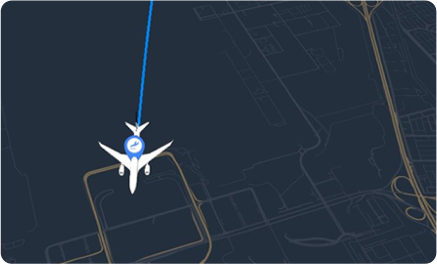
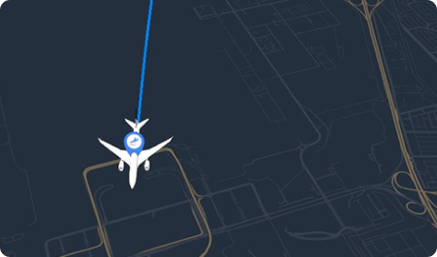
Miqat Page

diff --git a/src/renderer/screens/Miqat/index.tsx b/src/renderer/screens/Miqat/index.tsx
@@ -1,6 +1,34 @@
 import React from 'react';
+import UmrahMiqatSteps from 'renderer/components/UmrahMiqatSteps';
+import MiqatMap from 'renderer/components/MiqatMap';
 import classes from './style.module.css';
 
 export default function Miqat() {
-  return <div className={classes.wrapper}>Miqat</div>;
+  return (
+    <div className={classes.wrapper}>
+      <p className={classes.para}>
+        On the spiritual Hajj and Umrah trip to the purest place on earth, there
+        are Miqats (Islamic boundaries Prophet Mohammed Peace Be Upon Him
+        determined for Pilgrims to enter Ihram from), either by land points or
+        parallel to Miqat when arriving by air.
+      </p>
+      <section className={classes.secondSection}>
+        <MiqatMap />
+        <div className={classes.rightSecMap}>
+          <h1 className={classes.header}>Al-Juhfah</h1>
+          <hr className={classes.mapDivider} />
+          <p className={classes.mapText}>
+            Al-Juhfah is located 182 kilometres (113 miles) northwest of Makkah.
+            This is the Miqat for people intending to perform Hajj traveling
+            from North America, Europe, Turkey, Syria, Egypt, Algeria, Sudan and
+            several other African countries. Pilgrims may also enter into Ihram
+            at Rabigh, a town just to the north of al-Juhfah.
+          </p>
+        </div>
+      </section>
+      <section className={classes.stepSection}>
+        <UmrahMiqatSteps />
+      </section>
+    </div>
+  );
 }

diff --git a/src/renderer/components/UmrahMiqatSteps/styles.module.css b/src/renderer/components/UmrahMiqatSteps/styles.module.css
@@ -1,0 +1,75 @@
+.Wrapper {
+  position: relative;
+  width: 100%;
+}
+
+.header {
+  font-weight: 500;
+  font-size: 34px;
+  line-height: 41px;
+  color: #b49164;
+  margin-bottom: 17px;
+}
+
+.divider {
+  width: 868px;
+  height: 0px;
+  border: 1px solid #5d5d5d;
+  margin-bottom: 17px;
+}
+
+.steps {
+  height: 439px;
+  padding: 0 64px;
+  overflow-y: scroll;
+  display: flex;
+  flex-direction: column;
+  gap: 30px;
+  padding-left: 0;
+}
+
+.wrapper::after {
+  content: '';
+  position: absolute;
+  top: 0;
+  left: 0;
+  height: 110%;
+  width: 100%;
+  background: linear-gradient(
+    180deg,
+    rgba(35, 40, 44, 0) 25%,
+    rgba(35, 40, 44, 0.75) 80%,
+    rgba(35, 40, 44, 0.9) 95%,
+    #23282c 100%
+  );
+  pointer-events: none;
+}
+
+/* width */
+::-webkit-scrollbar {
+  width: 5px;
+}
+
+/* Track */
+::-webkit-scrollbar-track {
+  background: linear-gradient(
+    90deg,
+    #23282c 0%,
+    #23282c 30%,
+    #b39164 50%,
+    #23282c 60%,
+    #23282c 100%
+  );
+}
+
+/* Handle */
+::-webkit-scrollbar-thumb {
+  border-radius: 20px;
+  background: #b39164;
+  width: 40px;
+}
+
+/* Handle on hover */
+::-webkit-scrollbar-thumb:hover {
+  background: #967954;
+}

diff --git a/src/renderer/components/UmrahMiqatSteps/index.tsx b/src/renderer/components/UmrahMiqatSteps/index.tsx
@@ -1,0 +1,25 @@
+import MiqatStep from '../MiqatStep';
+import styles from './styles.module.css';
+
+const text =
+  'Ihram is an important aspect of the Hajj and Umrah pilgrimage for Muslims. It is a state of ritual purity that is entered into before the pilgrimage begins. ';
+function UmrahMiqatSteps() {
+  return (
+    <div className={styles.Wrapper}>
+      <h2 className={styles.header}>Steps to follow:</h2>
+      <hr className={styles.divider} />
+      <div className={styles.steps}>
+        <MiqatStep num={1} content={text} />
+        <MiqatStep num={2} content={text} />
+        <MiqatStep num={3} content={text} />
+        <MiqatStep num={4} content={text} />
+        <MiqatStep num={5} content={text} />
+        <MiqatStep num={6} content={text} />
+        <MiqatStep num={7} content={text} />
+        <MiqatStep num={8} content={text} />
+      </div>
+    </div>
+  );
+}
+
+export default UmrahMiqatSteps;

diff --git a/src/renderer/screens/Miqat/style.module.css b/src/renderer/screens/Miqat/style.module.css
@@ -1,0 +1,57 @@
+.para {
+  width: 865px;
+  height: 89px;
+
+  font-family: 'Inter';
+  font-style: normal;
+  font-weight: 400;
+  font-size: 20px;
+  line-height: 133%;
+
+  /* or 27px */
+
+  color: #ffffff;
+
+  opacity: 0.7;
+  margin-bottom: 35px;
+}
+
+.secondSection {
+  display: flex;
+  flex-direction: row;
+  justify-content: center;
+
+  gap: 32px;
+
+  width: 873px;
+  height: 369px;
+}
+
+.rightSecMap {
+  padding-top: 30px;
+}
+
+.header {
+  font-family: Displace-Medium;
+  font-weight: 500;
+  font-size: 34px;
+  line-height: 41px;
+
+  color: #b29164;
+}
+
+.mapDivider {
+  margin-top: 7px;
+  margin-bottom: 27px;
+  width: 364px;
+  height: 0px;
+  border: 1px solid #5d5d5d;
+}
+
+.mapText {
+  font-weight: 400;
+  font-size: 20px;
+  line-height: 133%;
+  color: #ffffff;
+  opacity: 0.7;
+}

diff --git a/src/renderer/components/MiqatMap/styles.module.css b/src/renderer/components/MiqatMap/styles.module.css
@@ -1,0 +1,46 @@
+.wrapper {
+  float: right;
+  padding: 12px;
+  border: 2.25879px solid #b29164;
+  border-radius: 16.5645px;
+  width: 469px;
+  height: 357px;
+}
+
+.wrapper p {
+  font-family: 'Inter';
+  font-size: 16px;
+  color: #b49164;
+}
+
+.selection {
+  border: 1.5px solid #b29164;
+  border-radius: 7px;
+  padding: 12px;
+  width: 277px;
+  height: 45px;
+}
+
+.img {
+  width: 437px;
+  height: 257px;
+  border-radius: 10px;
+}
+
+.footer {
+  margin-top: 19px;
+  display: flex;
+  flex-direction: row;
+  justify-content: center;
+}
+
+.footerText {
+  margin: auto;
+  font-weight: 400;
+  font-size: 18px;
+  line-height: 22px;
+  display: flex;
+  align-items: center;
+
+  color: #b49164;
+}

diff --git a/src/renderer/components/MiqatStep/styles.module.css b/src/renderer/components/MiqatStep/styles.module.css
@@ -1,0 +1,42 @@
+.wrapper {
+  position: relative;
+  display: flex;
+  align-items: flex-start;
+  gap: 20px;
+  padding: 30px 0 0 15px;
+}
+
+.wrapper::before {
+  content: '';
+  position: absolute;
+  top: 60px;
+  left: 19px;
+  height: 90px;
+  width: 4px;
+  border-left: 4px dashed #b49164;
+  z-index: 0;
+}
+
+.wrapper p {
+  font-family: 'Inter';
+  font-size: 20px;
+  opacity: 0.7;
+}
+
+.num {
+  position: relative;
+  margin-right: 30px;
+}
+
+.num::after {
+  content: '';
+  position: absolute;
+  top: 50%;
+  left: 50%;
+  transform: translate(-50%, -50%);
+  background-color: #b49164;
+  border-radius: 50%;
+  height: 40px;
+  width: 40px;
+  z-index: -1;
+}

diff --git a/src/renderer/components/MiqatMap/index.tsx b/src/renderer/components/MiqatMap/index.tsx
@@ -1,0 +1,14 @@
+import image from '../../../Images/plane.png';
+import styles from './styles.module.css';
+
+export default function MiqatMap() {
+  return (
+    <div className={styles.wrapper}>
+      <img src={image} className={styles.img} alt="plane_image" />
+      <div className={styles.footer}>
+        <p className={styles.footerText}>Travelling from:</p>
+        <div className={styles.selection}>Algeria</div>
+      </div>
+    </div>
+  );
+}

diff --git a/src/renderer/components/layouts/UmrahLayout/index.tsx b/src/renderer/components/layouts/UmrahLayout/index.tsx
@@ -9,7 +9,7 @@ import UmrahHeroImg from '../../../../../assets/images/Umrah/UmrahHero.png';
 export default function UmrahLayout() {
   return (
     <>
-      <Header mainHeading="Umrah & Zakat" />
+      <Header mainHeading="Umrah & Ziyarah" />
       <Hero image={UmrahHeroImg} />
       <div className={styles.tabsWrapper}>
         <Navigation elements={tabs} />

diff --git a/src/renderer/components/MiqatStep/index.tsx b/src/renderer/components/MiqatStep/index.tsx
@@ -1,0 +1,12 @@
+import styles from './styles.module.css';
+
+function MiqatStep({ num, content }: { num: number; content: string }) {
+  return (
+    <div className={styles.wrapper}>
+      <p className={styles.num}>{num}</p>
+      <p>{content}</p>
+    </div>
+  );
+}
+
+export default MiqatStep;
